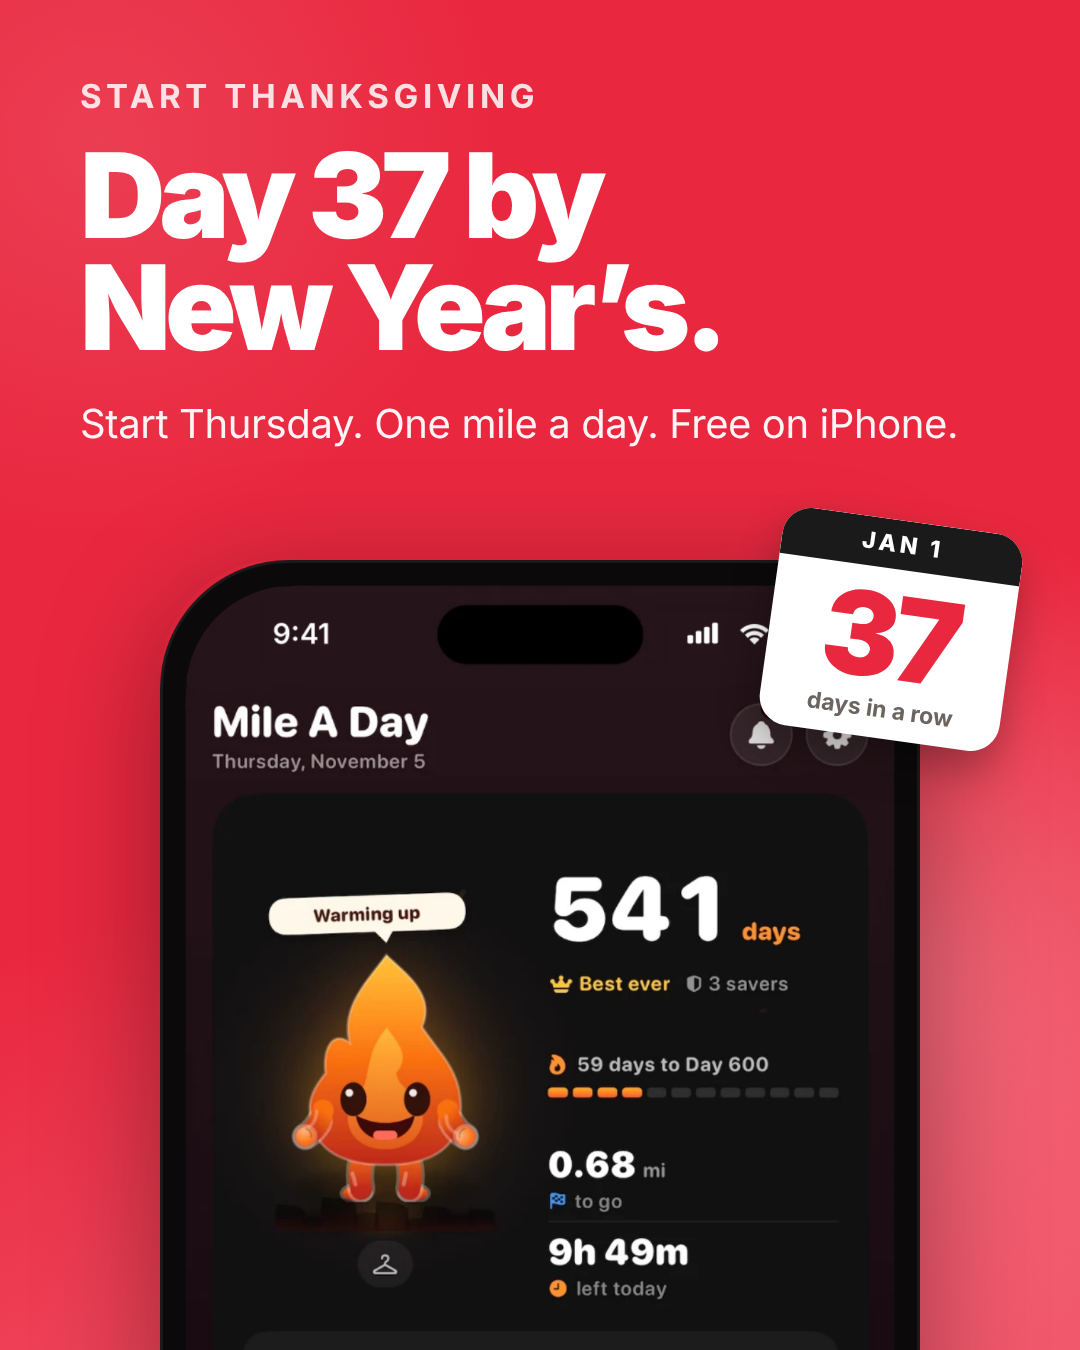
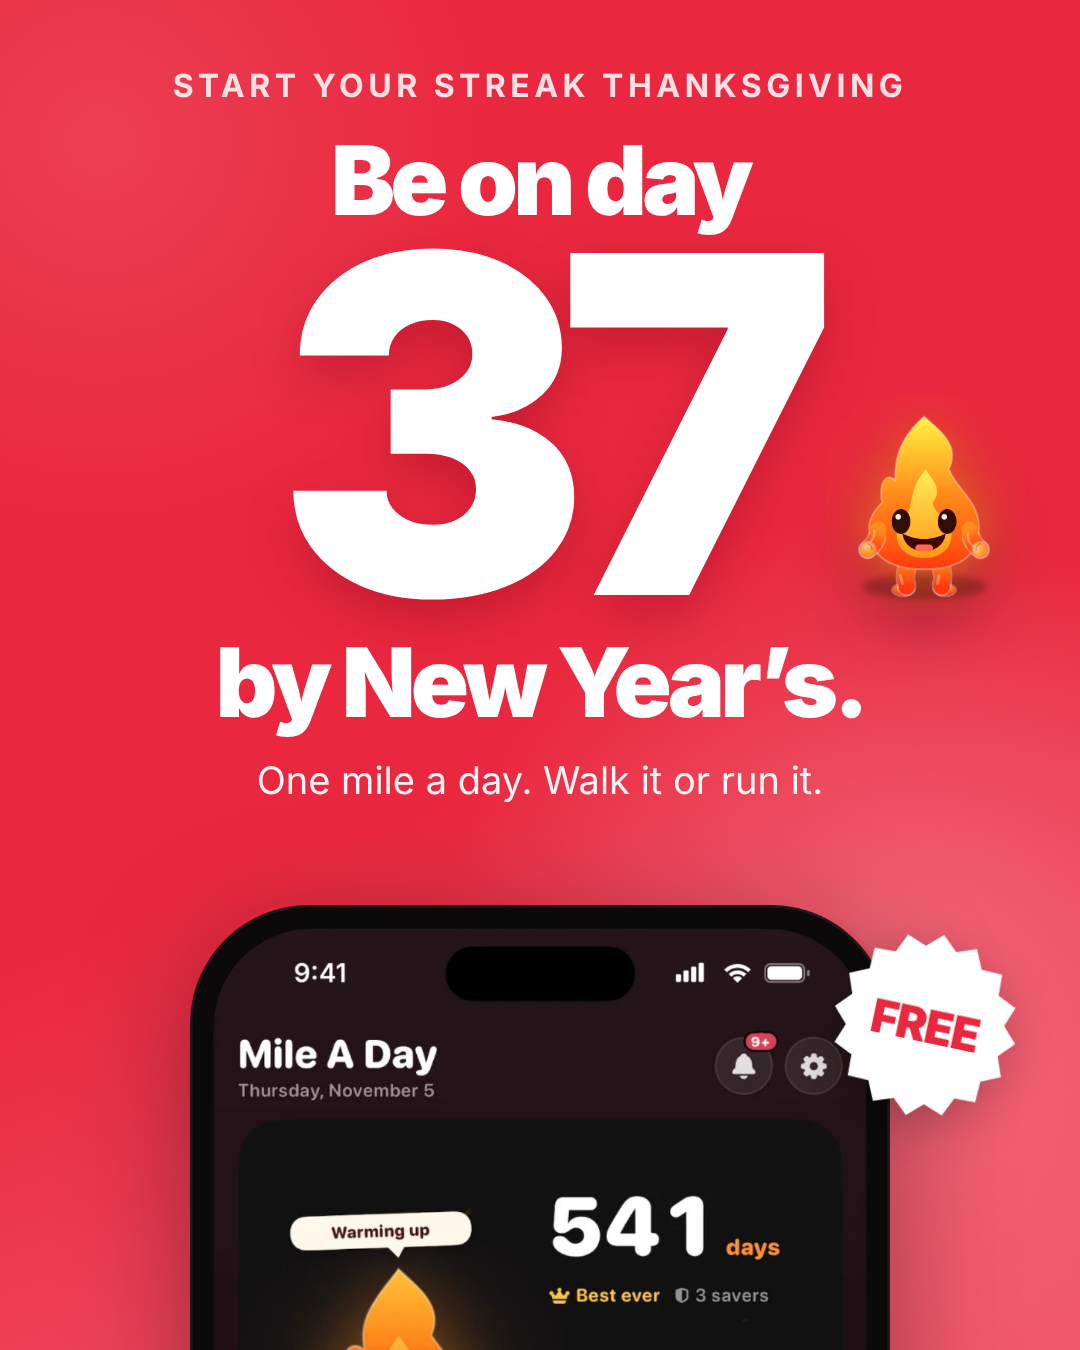
Add scroll-stoppers to the Thanksgiving ads
Flamey breaks out of the phone toward the viewer, a FREE starburst on
every ad, a giant 37, a second hook (Pie today. Mile tomorrow.) to test,
and a hook card to open the carousel.

Claude-Session: https://claude.ai/code/session_01Y9vwq5W5Nh2T9TYQcjQjGm

diff --git a/marketing/ads/holiday-2026/README.md b/marketing/ads/holiday-2026/README.md
@@ -8,11 +8,15 @@ logs their first mile, not cost per install.
 Style matches the App Store screenshots: one bright brand colour per ad, a tight white headline, one plain sentence
 and a large real phone screen. Meta adds the Download button under each ad, so the images carry no button of their own.
 
+Scroll-stoppers built in: Flamey bursting out of the phone toward the viewer (a face stops the thumb), a FREE
+starburst, a giant "37", and two hooks to test against each other.
+
 | File | Placement | Primary text | Headline |
 |---|---|---|---|
-| `thanksgiving/a-walk-off-feed.png` (1080×1350) / `a-walk-off-story.png` (1080×1920) | Feed / Stories + Reels | Thanksgiving tradition, new edition: walk or run one mile a day. Indoors or out, 10,000 steps counts too. Free on iPhone and Apple Watch. | Walk off the turkey. |
-| `thanksgiving/b-day-37-feed.png` / `b-day-37-story.png` | Feed / Stories + Reels | Start your streak on Thanksgiving and you'll be on day 37 when everyone else is writing resolutions. One mile a day. Free on iPhone. | Day 37 by New Year's. |
-| `thanksgiving/c1-streak.png` … `c5-download.png` (1080×1080) | Carousel, in order | One mile a day. Build a streak, earn medals, dress up your Flamey, and stay on track with streak tokens when life happens. Free on iPhone. | One mile a day. That's it. |
+| `a1-walk-off-feed.png` (1080×1350) / `a1-walk-off-story.png` (1080×1920) | Feed / Stories + Reels | Thanksgiving tradition, new edition: walk or run one mile a day. Indoors or out, 10,000 steps counts too. Free on iPhone and Apple Watch. | Walk off the turkey. |
+| `a2-pie-mile-feed.png` / `a2-pie-mile-story.png` | Feed / Stories + Reels | Eat the pie. Then start a streak: walk or run one mile a day, any pace. Free on iPhone and Apple Watch. | Pie today. Mile tomorrow. |
+| `b-day-37-feed.png` / `b-day-37-story.png` | Feed / Stories + Reels | Start your streak on Thanksgiving and you'll be on day 37 when everyone else is writing resolutions. One mile a day. Free on iPhone. | Day 37 by New Year's. |
+| `c0-hook.png`, then `c1-streak.png` … `c5-download.png` (1080×1080) | Carousel, in order | One mile a day. Build a streak, earn medals, dress up your Flamey, and stay on track with streak tokens when life happens. Free on iPhone. | One mile a day. That's it. |
 
 Rules these follow: nothing about the viewer's body or weight (Meta personal-attributes policy), no Mile A Day+ in
 ads, and only app screens without other users' names or photos (App Store slides 02, 03, 04, 06 and 08 show real
